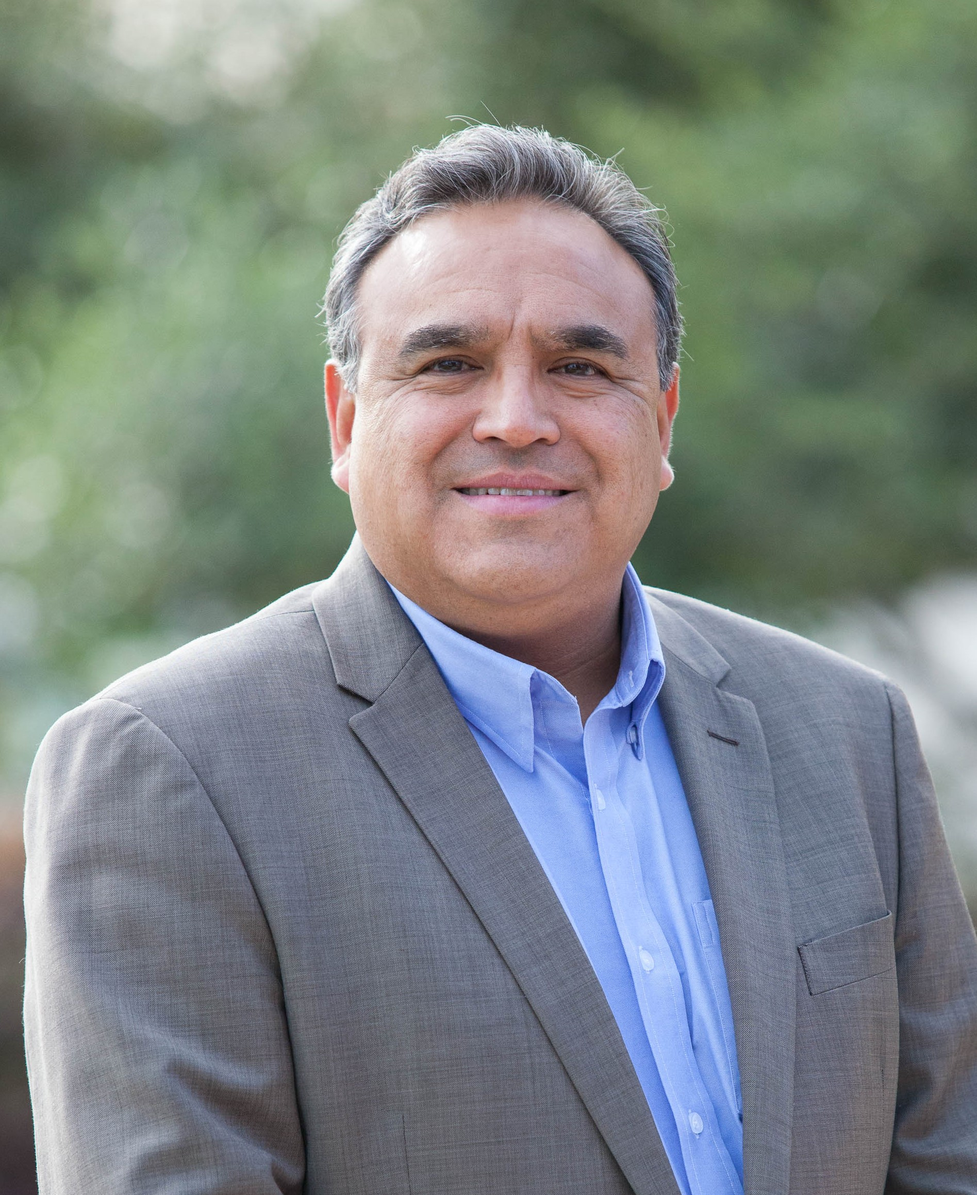
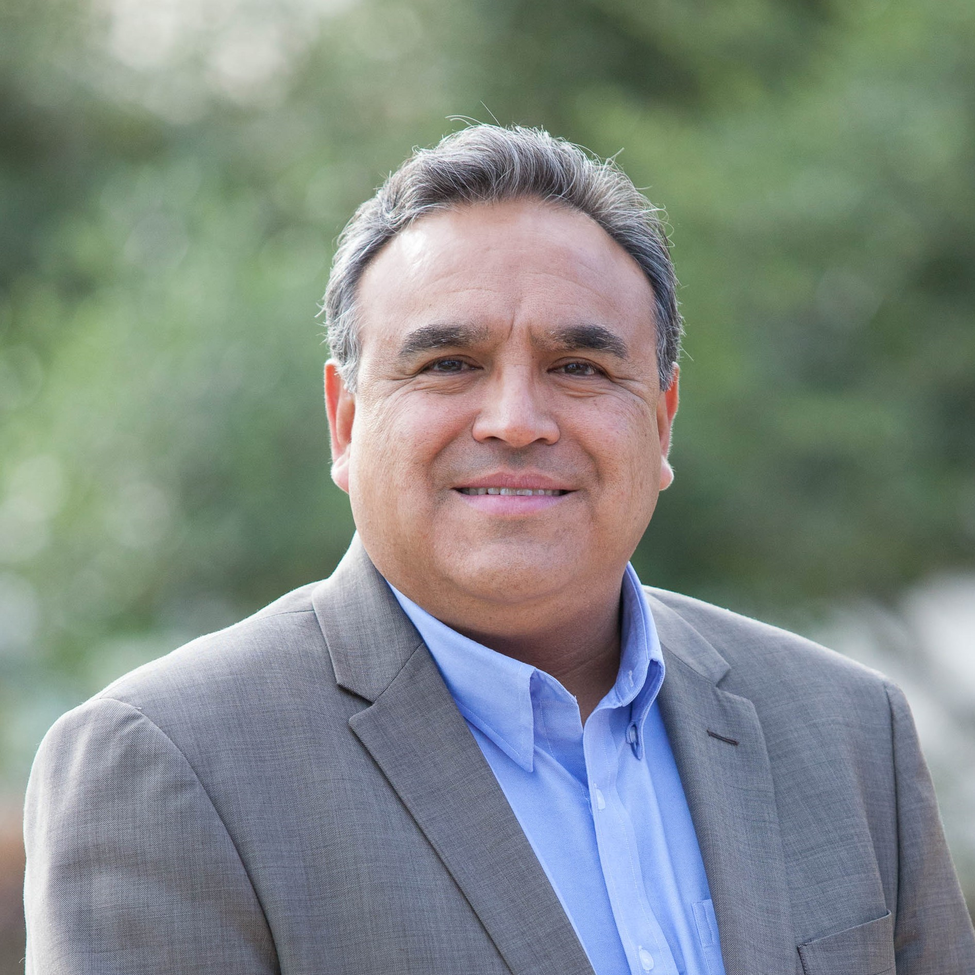
Sytle How to Vote page and fixed picture on meet emilio page

diff --git a/HowToVote.html b/HowToVote.html
@@ -48,7 +48,7 @@
       </ul>
     </div>
     <a href="https://secure.actblue.com/donate/votehuerta.org"><button type="button"
-      class="btn btn-outline-white waves-effect button-width-style">Donate</button></a>
+        class="btn btn-outline-white waves-effect button-width-style">Donate</button></a>
 
     <button class="navbar-toggler" type="button" data-toggle="collapse" data-target="#navbarSupportedContent-333"
       aria-controls="navbarSupportedContent-333" aria-expanded="false" aria-label="Toggle navigation">
@@ -59,10 +59,12 @@
   <!--/.Navbar -->
 
   <!--How to VOTE---------------------------------------->
-  <h1 class="display-1">
-    <center>How To Vote</center>
-  </h1>
-  <div class="container py-5 my-5">
+
+  <div class="container py-3 mb-5">
+    <h1 class="display-1">
+      <center>How To Vote</center>
+    </h1>
+    <hr class="w-header my-4 line-header">
     <section class="p-md-3 mx-md-5">
       <div class="row mb-5 d-flex align-items-center">
         <div class="col-lg-6 col-md-6">
@@ -72,34 +74,32 @@
             </div>
             <div class="card-body">
               <p class="card-text"></p>
-                <ul>
-                  <li>Check your registration status <a class="blue-text font-weight-bold"
-                      href="https://voterstatus.sos.ca.gov">here.</a></li>
-                  <li>Find your polling place <a class="blue-text font-weight-bold"
-                      href="https://kernvote.com/voting/forms">here.</a></li>
-                  <li>Vote at your polling place:<span class="black-text font-weight-bold"> Tuesday, March 3, between
-                      7:00AM - 8:00PM</span>
-                  </li>
+              <ul>
+                <li>Check your registration status <a class="blue-text font-weight-bold"
+                    href="https://voterstatus.sos.ca.gov">here.</a></li>
+                <li>Find your polling place <a class="blue-text font-weight-bold"
+                    href="https://kernvote.com/voting/forms">here.</a></li>
+                <li>Vote at your polling place:<span class="black-text font-weight-bold"> Tuesday, March 3, between
+                    7:00AM - 8:00PM</span>
+                </li>
 
-                </ul>
+              </ul>
               </p>
             </div>
           </div>
         </div>
         <div class="col-md-6 col-lg-4">
           <div class="view overlay rounded z-depth-1">
-            <img src="img/Huerta/Vote.jpg" class="img-fluid"
-              alt="Sample project image" />
-           
+            <img src="img/Huerta/Vote.jpg" class="img-fluid" alt="Sample project image" />
+
           </div>
         </div>
       </div>
       <div class="row mb-5 d-flex align-items-center justify-content-end">
         <div class="col-md-6 col-lg-4">
           <div class="view overlay rounded z-depth-1">
-            <img src="img/Huerta/early(clock).jpg" class="img-fluid"
-              alt="Sample project image" />
-            
+            <img src="img/Huerta/early(clock).jpg" class="img-fluid" alt="Sample project image" />
+
           </div>
         </div>
         <div class="col-lg-6 col-md-6">
@@ -110,8 +110,9 @@
             <div class="card-body">
               <p>
                 <ul>
-                  <li>Vote early at: The County Registrar's office located at <span class="font-weight-bold"> 1115 Truxtun Ave. - 1st Floor,
-                    Bakersfield, CA 93301</span></li>
+                  <li>Vote early at: The County Registrar's office located at <span class="font-weight-bold"> 1115
+                      Truxtun Ave. - 1st Floor,
+                      Bakersfield, CA 93301</span></li>
 
                 </ul>
               </p>
@@ -128,22 +129,23 @@
             <div class="card-body">
               <p class="card-text">
                 <ul>
-                  <li>Find vote-by-mail request form online <a
-                    class="blue-text font-weight-bold" href="https://kernvote.com/votebymail">here</a> or by calling the County Registrar's office and return your mail ballot request form in by <span class= "font-weight-bold">Feb. 25.</span>
+                  <li>Find vote-by-mail request form online <a class="blue-text font-weight-bold"
+                      href="https://kernvote.com/votebymail">here</a> or by calling the County Registrar's office and
+                    return your mail ballot request form in by <span class="font-weight-bold">Feb. 25.</span>
                   </li>
                   <li>
-                    Fill out your ballot and return by mail or to the County Registrar's office *Sign, date, and fill out address.</li>
-                  <li>Ballots must be postmarked by <span  class="font-weight-bold">March 3rd.</span></li>
-                  </ul>
+                    Fill out your ballot and return by mail or to the County Registrar's office *Sign, date, and fill
+                    out address.</li>
+                  <li>Ballots must be postmarked by <span class="font-weight-bold">March 3rd.</span></li>
+                </ul>
               </p>
             </div>
           </div>
         </div>
         <div class="col-md-6 col-lg-4">
           <div class="view overlay rounded z-depth-1">
-            <img src="img/Huerta/mailbox.jpg" class="img-fluid"
-              alt="Sample project image" />
-            
+            <img src="img/Huerta/mailbox.jpg" class="img-fluid" alt="Sample project image" />
+
           </div>
         </div>
       </div>

diff --git a/MeetEmilio.html b/MeetEmilio.html
@@ -80,7 +80,7 @@
 
           <div class="view">
             <img src="img/Huerta/Huerta-2.jpg" class="img-fluid rounded-circle img-thumbnail z-depth-1 photo-border"
-              alt="smaple image" height="400" width="400">
+              alt="smaple image">
           </div>
 
         </div>
@@ -89,7 +89,7 @@
           <div>
 
             <h3 class="font-weight-bold mb-4">Emilio Huerta</h3>
-            <P>
+            <P class="volunteer-text">
               As a life-long resident of Kern County, Emilio grew up witnessing firsthand the organizing leadership of
               Cesar Chavez and his mother Dolores Huerta. At a young age, Emilio learned to appreciate the value of
               committing to a life of service to others.
@@ -295,7 +295,7 @@
               Kern County families deserve safe schools. As Supervisor, I will fight to ensure that each school in our
               community is safe for our children by supporting earthquake retrofitting and improved fire safety.
             </p>
-            <a class="btn btn-primary btn-sm btn-rounded" type="button" data-toggle="collapse" data-target="#CleanWater"
+            <a class="btn submit-button btn-md btn-rounded" type="button" data-toggle="collapse" data-target="#CleanWater"
               aria-expanded="false" aria-controls="CleanWater">Read More</a>
           </div>
 
@@ -323,7 +323,7 @@
               Kern County families deserve safe schools. As Supervisor, I will fight to ensure that each school in our
               community is safe for our children by supporting earthquake retrofitting and improved fire safety.
             </p>
-            <a class="btn btn-primary btn-sm btn-rounded" type="button" data-toggle="collapse" data-target="#HealthCare"
+            <a class="btn submit-button btn-md btn-rounded" type="button" data-toggle="collapse" data-target="#HealthCare"
               aria-expanded="false" aria-controls="HealthCare">Read More</a>
           </div>
 
@@ -350,7 +350,7 @@
               accessible, and quality healthcare.
 
             </p>
-            <a class="btn btn-primary btn-sm btn-rounded" type="button" data-toggle="collapse"
+            <a class="btn submit-button btn-md btn-rounded" type="button" data-toggle="collapse"
               data-target="#AffordableHousing" aria-expanded="false" aria-controls="AffordableHousing">Read More</a>
           </div>
 
@@ -372,7 +372,7 @@
               youth.
 
             </p>
-            <a class="btn btn-primary btn-sm btn-rounded" type="button" data-toggle="collapse" data-target="#Safe"
+            <a class="btn submit-button btn-md btn-rounded" type="button" data-toggle="collapse" data-target="#Safe"
               aria-expanded="false" aria-controls="Safe">Read More</a>
           </div>
 
@@ -398,7 +398,7 @@
               Advisory Council in my office to receive information of improving veteran services and to support veterans
               service events like the Kern County Veterans Stand Down.
             </p>
-            <a class="btn btn-primary btn-sm btn-rounded" type="button" data-toggle="collapse" data-target="#Support"
+            <a class="btn submit-button btn-md btn-rounded" type="button" data-toggle="collapse" data-target="#Support"
               aria-expanded="false" aria-controls="Support">Read More</a>
           </div>
 
@@ -424,7 +424,7 @@
               service providers to develop similar solutions for Kern County.
 
             </p>
-            <a class="btn btn-primary btn-sm btn-rounded" type="button" data-toggle="collapse" data-target="#Homeless"
+            <a class="btn submit-button btn-md btn-rounded" type="button" data-toggle="collapse" data-target="#Homeless"
               aria-expanded="false" aria-controls="Homeless">Read More</a>
           </div>
 

diff --git a/css/style.css b/css/style.css
@@ -24,6 +24,12 @@
     font-size: x-large;
 }
 
+.line-header {
+    border-color: gold;
+    width: 200px;
+    border-top: 2px solid gold;
+}
+
 .index-text {
     color: #000080;
 }
